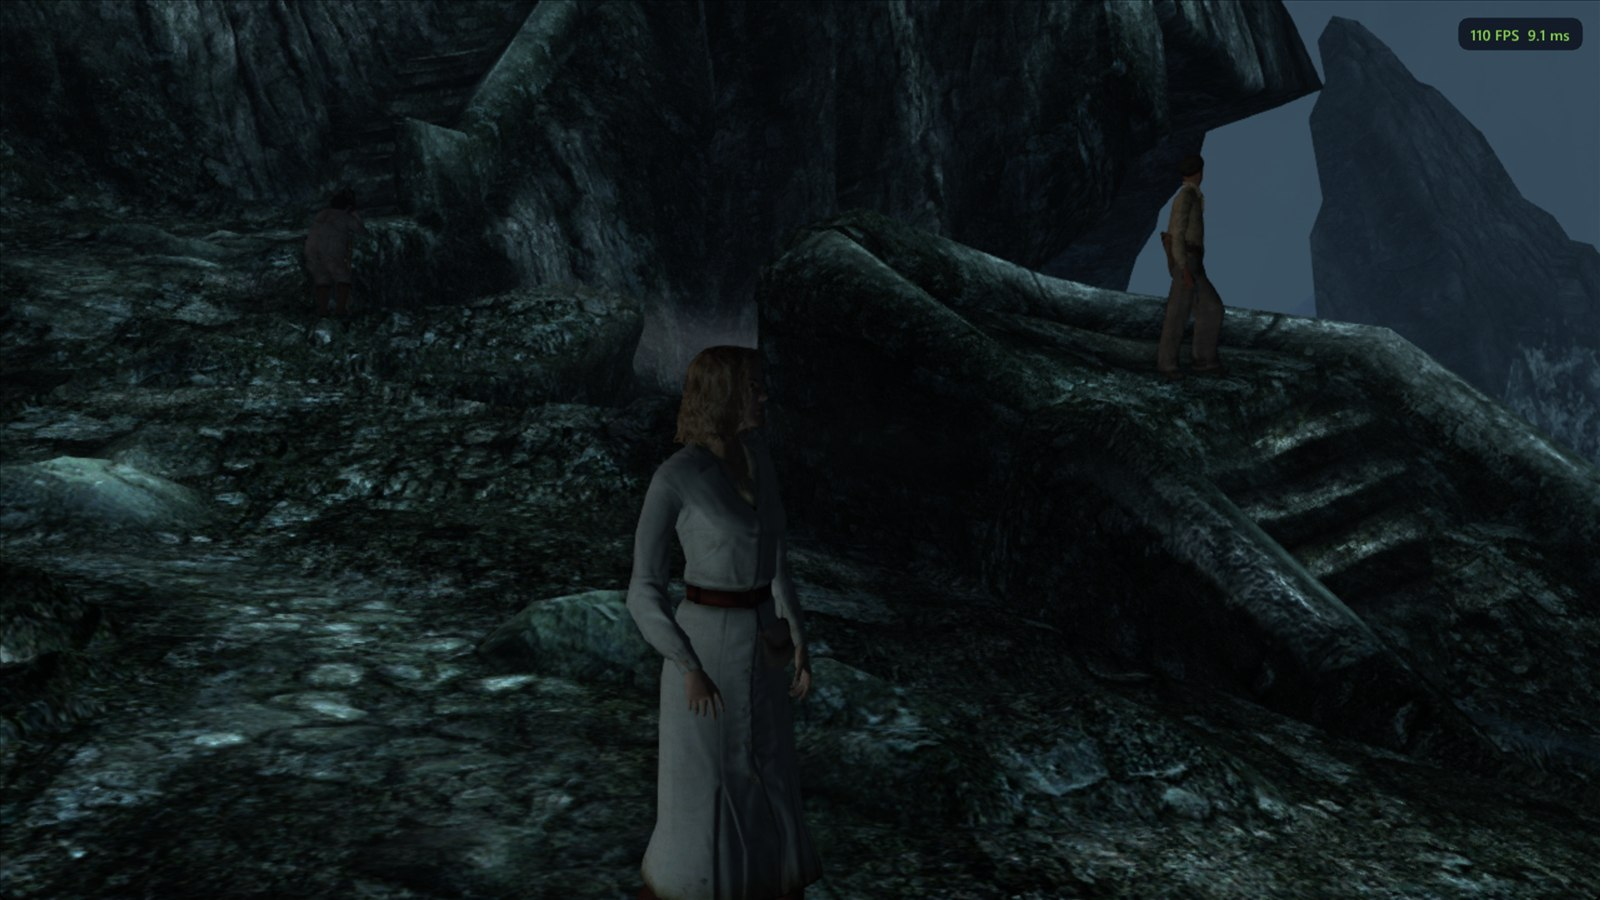
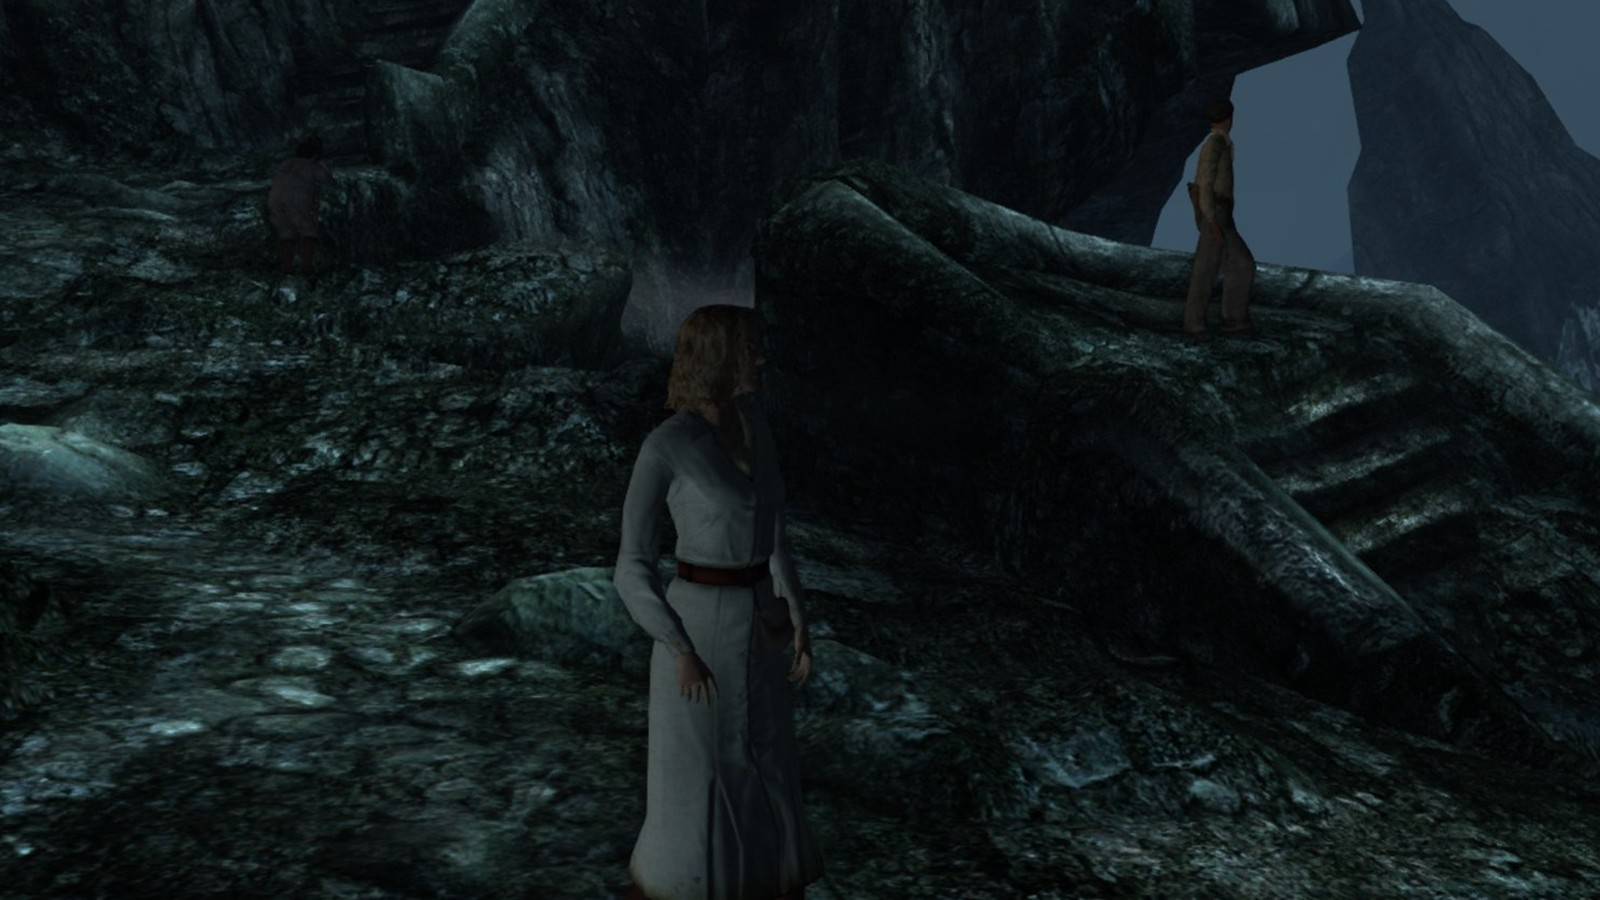
README: artwork first (trailer, launcher, gallery), then a short At a glance grid
The banner, buttons, trailer, the launcher's Home screen and a six-shot
gallery come before any text; the long highlights grid becomes one-line
items, and the detailed sections follow. Game shots lose the frame counter;
a new V-Rex chapter shot and a current achievement pop-up.

diff --git a/README.md b/README.md
@@ -2,158 +2,51 @@
 
 <img src="docs/images/banner.jpg" alt="Peter Jackson's King Kong PC Port" width="100%">
 
-<br>
-
-[![Latest release](https://img.shields.io/github/v/release/TekRantGaming/king-kong-recompiled?style=for-the-badge&label=release&color=e8a33c&labelColor=0d0b09)](https://github.com/TekRantGaming/king-kong-recompiled/releases/latest)
-[![Downloads](https://img.shields.io/github/downloads/TekRantGaming/king-kong-recompiled/total?style=for-the-badge&color=8a5a1c&labelColor=0d0b09)](https://github.com/TekRantGaming/king-kong-recompiled/releases)
-![Platforms](https://img.shields.io/badge/platforms-Windows%20%7C%20Linux%20(Proton)-5b7a8c?style=for-the-badge&labelColor=0d0b09)
-[![Listed on Quiver Launcher](https://img.shields.io/badge/listed%20on-Quiver%20Launcher-5b7a8c?style=for-the-badge&labelColor=0d0b09)](https://quiverlauncher.com/apps/peter-jackson-s-king-kong-the-official-game-of-the-movie-king-kong-pc-port)
-
 ### Peter Jackson's King Kong on PC, running natively, with the launcher and options of a modern PC release.
 
-[<img src="https://img.shields.io/badge/Download-Windows%20x64-e8a33c?style=for-the-badge&logo=windows&logoColor=white&labelColor=0d0b09" alt="Download for Windows" height="40">](https://github.com/TekRantGaming/king-kong-recompiled/releases/latest)
+[<img src="https://img.shields.io/badge/Download-Windows%20x64-e8a33c?style=for-the-badge&logo=windows&logoColor=white&labelColor=0d0b09" alt="Download for Windows" height="44">](https://github.com/TekRantGaming/king-kong-recompiled/releases/latest)
 &nbsp;
-[<img src="https://img.shields.io/badge/Discord-Join%20the%20community-5865F2?style=for-the-badge&logo=discord&logoColor=white&labelColor=0d0b09" alt="Join the Discord" height="40">](https://discord.gg/PET2xU5FJq)
+[<img src="https://img.shields.io/badge/Discord-Join%20the%20community-5865F2?style=for-the-badge&logo=discord&logoColor=white&labelColor=0d0b09" alt="Join the Discord" height="44">](https://discord.gg/PET2xU5FJq)
 
-<sub>The original Xbox 360 game code, translated to native PC code with the <a href="https://github.com/rexglue/rexglue-sdk">ReXGlue SDK</a>. <b>No game files included</b>: bring your own copy of the King Kong Xbox 360 disc.</sub>
+[![Latest release](https://img.shields.io/github/v/release/TekRantGaming/king-kong-recompiled?style=flat-square&label=release&color=e8a33c&labelColor=0d0b09)](https://github.com/TekRantGaming/king-kong-recompiled/releases/latest)
+[![Downloads](https://img.shields.io/github/downloads/TekRantGaming/king-kong-recompiled/total?style=flat-square&color=8a5a1c&labelColor=0d0b09)](https://github.com/TekRantGaming/king-kong-recompiled/releases)
+![Platforms](https://img.shields.io/badge/platforms-Windows%20%7C%20Linux%20(Proton)-5b7a8c?style=flat-square&labelColor=0d0b09)
+[![Listed on Quiver Launcher](https://img.shields.io/badge/listed%20on-Quiver%20Launcher-5b7a8c?style=flat-square&labelColor=0d0b09)](https://quiverlauncher.com/apps/peter-jackson-s-king-kong-the-official-game-of-the-movie-king-kong-pc-port)
+
+<br>
+
+<a href="https://www.youtube.com/watch?v=XDixAgLN6w4"><img src="https://img.youtube.com/vi/XDixAgLN6w4/maxresdefault.jpg" alt="Watch the trailer on YouTube" width="100%"></a>
+<sub>▶&nbsp; <a href="https://www.youtube.com/watch?v=XDixAgLN6w4"><b>Watch the trailer</b></a></sub>
 
 <br><br>
 
-<a href="https://www.youtube.com/watch?v=XDixAgLN6w4"><img src="https://img.youtube.com/vi/XDixAgLN6w4/maxresdefault.jpg" alt="Watch the trailer on YouTube" width="85%"></a>
+<img src="docs/images/launcher-home.jpg" alt="The launcher's Home screen" width="100%">
 
-<sub>▶ <a href="https://www.youtube.com/watch?v=XDixAgLN6w4">Watch the trailer on YouTube</a></sub>
+<img src="docs/images/game-menu.jpg" alt="The game's main menu" width="49%">
+<img src="docs/images/game-rowboat.jpg" alt="Rowing to Skull Island in the storm" width="49%">
+<img src="docs/images/game-island.jpg" alt="Ann and the crew on Skull Island" width="49%">
+<img src="docs/images/game-vrex.jpg" alt="The V-Rex chapter with ambient occlusion" width="49%">
+<img src="docs/images/launcher-setup.jpg" alt="Setting up from your own disc" width="49%">
+<img src="docs/images/achievement-popup.jpg" alt="An achievement pop-up" width="49%">
+
+<sub>The original Xbox 360 game code, translated to native PC code with the <a href="https://github.com/rexglue/rexglue-sdk">ReXGlue SDK</a>. <b>No game files included</b>: bring your own copy of the King Kong Xbox 360 disc.</sub>
 
 </div>
 
 <br>
 
+## At a glance
+
+| | | |
+| :--- | :--- | :--- |
+| 🖥 **Up to 8K**, any frame rate up to 240 or unlimited | 🎮 **Any controller**, or a real keyboard and mouse layout | 🧩 **Plays past the "VENTURE" freeze** that stops Xenia |
+| ✨ **FSR 1 and NIS upscaling**, ambient occlusion, presets | 📺 **Original Xbox 360 look** in one click, or Modern | 🔭 **Wider field of view**, up to 110° |
+| 🏆 **Achievements** with Xbox 360 or Steam style pop-ups | 🕹 **All ten cheats** as switches | 🎥 **Camera shake**, vibration and every control tunable |
+| 💿 **Install from your own disc** in a few clicks | 🔄 **Updates itself**, with a stable and a beta channel | 🚂 **Add to Steam** with artwork, ready for the Steam Deck |
+| 🐧 **Linux and Steam Deck** through Proton (experimental) | 👥 **See who's playing**, anonymously | 💬 **[Join the Discord](https://discord.gg/PET2xU5FJq)** for news and early builds |
+
 > [!NOTE]
-> **In active development.** New versions come out often, and the launcher offers each one when it opens. Every chapter has been started and played for a while by automated test runs, but a full play-through hasn't been confirmed yet, so please [report anything that goes wrong](#reporting-a-problem). What changed in each version is on the [releases page](https://github.com/TekRantGaming/king-kong-recompiled/releases).
-
-## Highlights
-
-<table>
-<tr>
-<td width="33%" valign="top">
-
-**Plays past the freeze**<br>
-On Xenia this game gets stuck at the start, staring at the word "VENTURE". This port fixes it, with working music and voice lines.
-
-</td>
-<td width="33%" valign="top">
-
-**Up to 8K**<br>
-Render at up to 7680 x 4320, or supersample for the cleanest edges, with quality settings that match your screen.
-
-</td>
-<td width="33%" valign="top">
-
-**Your frame rate**<br>
-30 fps by default, just like the Xbox 360. Go up to 240 or unlimited if you want it smoother (see known issues).
-
-</td>
-</tr>
-<tr>
-<td valign="top">
-
-**Achievements with pop-ups**<br>
-A pop-up with a sound every time you unlock one of the game's 9 achievements, in the Xbox 360's style or Steam's. Choose the sound in the launcher.
-
-</td>
-<td valign="top">
-
-**Your controls, your way**<br>
-Remap any button, invert and tune the camera, toggle aim, set a deadzone and vibration, or play with a proper keyboard and mouse layout.
-
-</td>
-<td valign="top">
-
-**Install from your disc**<br>
-Download, run, pick your disc image in the launcher, and play. No technical steps.
-
-</td>
-</tr>
-<tr>
-<td valign="top">
-
-**A wider view**<br>
-Widen the field of view from the original 69° up to 110°. Jack's gun keeps its usual size, and nothing pops in at the edges.
-
-</td>
-<td valign="top">
-
-**Cheats as switches**<br>
-All ten of the game's cheats are switches in the launcher, so there's no typing codes every time you play.
-
-</td>
-<td valign="top">
-
-**Always up to date**<br>
-The launcher offers new versions when it opens and shows you what changed. The newest shader pack downloads by itself.
-
-</td>
-</tr>
-<tr>
-<td valign="top">
-
-**Ambient occlusion**<br>
-Soft shading in corners and creases and under rocks, grass and people, that stays under the game's fog. About 1 ms a frame at 4K.
-
-</td>
-<td valign="top">
-
-**AMD FSR 1 and NVIDIA NIS**<br>
-Two upscalers for any graphics card, picked for yours by default, each with Native, Quality, Balanced and Performance modes.
-
-</td>
-<td valign="top">
-
-**Original or Modern**<br>
-Play it exactly as the Xbox 360 did with one click, or pick a preset from Low to Ultra, or one made for the Steam Deck.
-
-</td>
-</tr>
-<tr>
-<td valign="top">
-
-**A launcher made for controllers**<br>
-Set everything up from the couch with a controller, or use the keyboard and mouse. The button pictures match your controller automatically.
-
-</td>
-<td valign="top">
-
-**Add to Steam**<br>
-One click puts it in your Steam library with its artwork, ready for Big Picture and the Steam Deck, with your controller still working.
-
-</td>
-<td valign="top">
-
-**Looks and sounds like the game**<br>
-The launcher takes the logo, stills from the movie, the menu music and the menu sounds from your own copy of the game.
-
-</td>
-</tr>
-<tr>
-<td valign="top">
-
-**Linux and Steam Deck**<br>
-Play now through Steam's Proton, as an experimental build. A native Linux version is in development.
-
-</td>
-<td valign="top">
-
-**See who's playing**<br>
-The launcher shows how many players are online, with an anonymous check-in you can switch off at any time.
-
-</td>
-<td valign="top">
-
-**Join the community**<br>
-News, upcoming features, early builds and a place to tell us what you think, on the official [Discord](https://discord.gg/PET2xU5FJq).
-
-</td>
-</tr>
-</table>
+> **In active development.** New versions come out often, and the launcher offers each one when it opens. A full play-through hasn't been confirmed yet, so please [report anything that goes wrong](#reporting-a-problem). What changed in each version is on the [releases page](https://github.com/TekRantGaming/king-kong-recompiled/releases).
 
 ## Getting started
 
@@ -412,27 +305,7 @@ Pick **AMD FSR 1** or **NVIDIA NIS** under **Upscaler**. Both work on any graphi
 
 The presets use NVIDIA NIS on an NVIDIA graphics card and AMD FSR 1 on any other; at Native it only sharpens. Change any of them yourself and the preset shows **Custom**.
 
-## In game
-
-<div align="center">
-<img src="docs/images/game-menu.jpg" alt="The main menu" width="100%">
-<sub>The main menu.</sub>
-</div>
-
-<br>
-
-<table>
-<tr>
-<td width="50%"><img src="docs/images/game-venture.jpg" alt="The opening on the ship, where Xenia gets stuck"></td>
-<td width="50%"><img src="docs/images/game-rowboat.jpg" alt="Rowing to Skull Island in the storm"></td>
-</tr>
-<tr>
-<td><img src="docs/images/game-island.jpg" alt="Ann and the crew on Skull Island"></td>
-<td><img src="docs/images/achievement-popup.jpg" alt="An achievement pop-up in the launcher"></td>
-</tr>
-</table>
-
-### Xbox 360 vs PC port
+## Xbox 360 vs PC port
 
 | | Xbox 360 | PC port |
 | --- | :---: | :---: |
